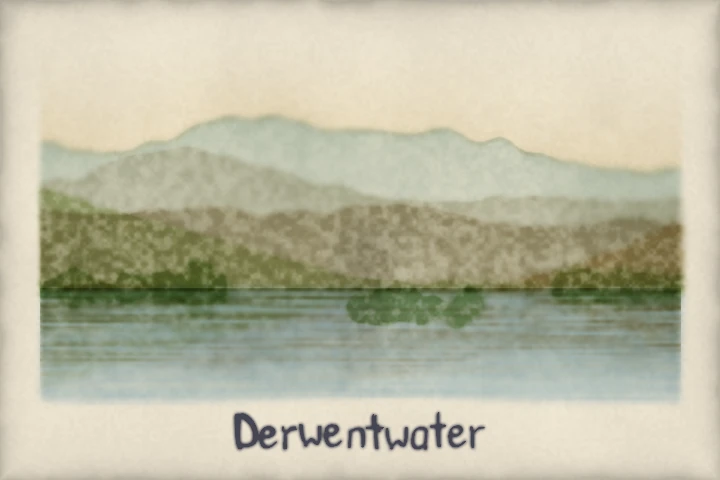
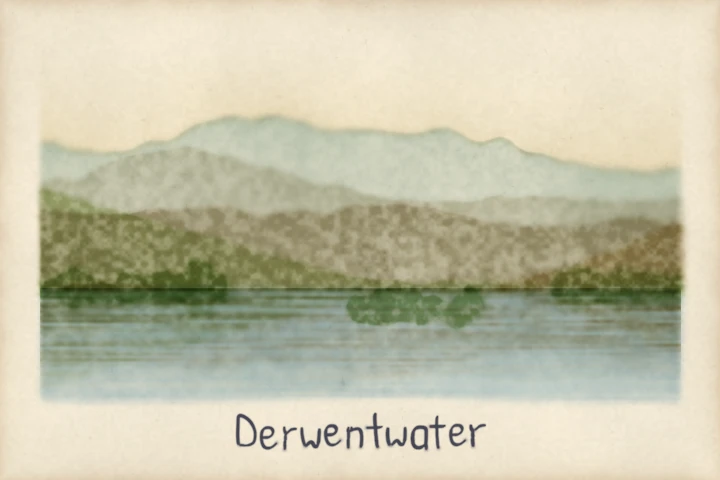
Letter the examples at scale 2
Claude-Session: https://claude.ai/code/session_0181LvWf4Znt1RFmCenbd5hE

Changed region(s): [[0.0, 0.0, 1.0, 1.0], [0.3056, 0.8438, 0.6722, 0.9375]]

diff --git a/examples/nib_stages.py b/examples/nib_stages.py
@@ -83,6 +83,8 @@ FIGURES: tuple[str, ...] = (
 )
 #: The width the figures are designed at, in pixels; the height is five ninths of it.
 DESIGN_W = 360
+#: How many times larger the nib plate is painted than the figure, before it is downsized.
+NIB_SCALE = 2
 #: The size of the paper's granulation noise, in pixels at the design width.
 GRAN_PX = 3.0
 #: The seed of the paper's noise, the hand, the nib and the dither the file is written with.
@@ -125,7 +127,11 @@ def _name(figure: str, canvas: Canvas, sheet: Sheet, paper: np.ndarray, unit: fl
     hand = Hand(face, hand_style)
     setting = Setting(NAME, TYPE_PX, path=_line(canvas.w / unit, h / unit), wash=figure != "ground")
     marks = hand.write(setting, hand.generator(SEED))
-    surface = NibSurface(canvas, unit, ground, GRAN_PX * unit)
+    big = Canvas(
+        0, 0, NIB_SCALE * canvas.w, NIB_SCALE * canvas.h, NIB_SCALE * canvas.w, NIB_SCALE * canvas.h
+    )
+    dark2 = np.repeat(np.repeat(ground, NIB_SCALE, axis=0), NIB_SCALE, axis=1)
+    surface = NibSurface(big, NIB_SCALE * unit, dark2, GRAN_PX * NIB_SCALE * unit)
     groups = NibGroups(nib, face, hand_style, BrushStyle(), PaperStyle())
     return _lay_plate(marks, surface, groups, paper)
 
@@ -139,7 +145,9 @@ def _lay_plate(
         if written is None:
             raise RuntimeError("the hand wrote no marks")
         with Image.open(written) as plate:
-            rgba = np.asarray(plate.convert("RGBA"), np.float32) / 255
+            size = (surface.canvas.w // NIB_SCALE, surface.canvas.h // NIB_SCALE)
+            small = plate.convert("RGBA").resize(size, Image.Resampling.LANCZOS)
+    rgba = np.asarray(small, np.float32) / 255
     alpha = rgba[..., 3:]
     return paper * (1 - alpha) + rgba[..., :3] * alpha
 

diff --git a/examples/derwentwater.py b/examples/derwentwater.py
@@ -71,6 +71,8 @@ logger = logging.getLogger(__name__)
 #: The seed of the paper, the ridges, the ripples and the nib.
 SEED = 21
 STEM = "derwentwater"
+#: How many times larger the nib plate is painted than the picture, before it is downsized.
+NIB_SCALE = 2
 NAME = "Derwentwater"
 #: Each hill, far to near: the pigment, where its ridge runs (as a share of the height),
 #: how far the ridge swings, the density at its crest and how granulating it is.
@@ -243,12 +245,16 @@ def _name(canvas: Canvas, gran_px: float, plate: Path) -> np.ndarray:
     hand = Hand(face, hand_style)
     setting = Setting(NAME, 0.072 * w, anchor=(w / 2, 0.935 * h), align="middle", ink="#4a4a58")
     marks: list[Mark] = hand.write(setting, hand.generator(SEED))
-    surface = NibSurface(canvas, 1.0, np.zeros((h, w), np.float32), gran_px)
+    canvas2 = Canvas(0, 0, NIB_SCALE * w, NIB_SCALE * h, NIB_SCALE * w, NIB_SCALE * h)
+    dark2 = np.zeros((NIB_SCALE * h, NIB_SCALE * w), np.float32)
+    surface = NibSurface(canvas2, NIB_SCALE, dark2, gran_px * NIB_SCALE)
     groups = NibGroups(NibStyle(), face, hand_style, BrushStyle(), PaperStyle())
     plate_path = nib_plate(marks, surface, groups, plate)
     if plate_path is None:
         raise RuntimeError("the hand wrote no marks")
-    return np.asarray(Image.open(plate_path).convert("RGBA"), np.float32) / 255
+    with Image.open(plate_path) as big:
+        small = big.convert("RGBA").resize((w, h), Image.Resampling.LANCZOS)
+    return np.asarray(small, np.float32) / 255
 
 
 def main(out_dir: Path, size: int = 720) -> Path:

diff --git a/examples/word.py b/examples/word.py
@@ -62,6 +62,8 @@ GRAN_PX = 5.0
 SEED = 7
 NAME = "pyntpot"
 STEM = "word"
+#: How many times larger the nib plate is painted than the picture, before it is downsized.
+NIB_SCALE = 2
 #: The size the name is set at, in pixels.
 NAME_PX = 104.0
 #: How wide the name is set, in multiples of its size, as the hand writes it.
@@ -112,13 +114,17 @@ def main(out_dir: Path) -> Path:
     hand = Hand(face, hand_style)
     marks: list[Mark] = hand.write(Setting(NAME, NAME_PX, path=_line()), hand.generator(SEED))
 
-    surface = NibSurface(canvas, 1.0, np.zeros((H, W), np.float32), GRAN_PX)
+    canvas2 = Canvas(0, 0, NIB_SCALE * W, NIB_SCALE * H, NIB_SCALE * W, NIB_SCALE * H)
+    dark2 = np.zeros((NIB_SCALE * H, NIB_SCALE * W), np.float32)
+    surface = NibSurface(canvas2, NIB_SCALE, dark2, GRAN_PX * NIB_SCALE)
     groups = NibGroups(NibStyle(), face, hand_style, BrushStyle(), PaperStyle())
     plate_path = nib_plate(marks, surface, groups, out_dir / f"{STEM}-plate.webp")
     if plate_path is None:
         raise RuntimeError("the hand wrote no marks")
 
-    rgba = np.asarray(Image.open(plate_path).convert("RGBA"), np.float32) / 255
+    with Image.open(plate_path) as big:
+        small = big.convert("RGBA").resize((W, H), Image.Resampling.LANCZOS)
+    rgba = np.asarray(small, np.float32) / 255
     alpha = rgba[..., 3:]
     out = washed * (1 - alpha) + rgba[..., :3] * alpha
 

diff --git a/examples/how_to_own_shapes.py b/examples/how_to_own_shapes.py
@@ -63,6 +63,8 @@ GRAN_PX = 3.0
 SEED = 5
 NAME = "Skiddaw"
 STEM = "own_shapes"
+#: How many times larger the nib plate is painted than the picture, before it is downsized.
+NIB_SCALE = 2
 
 #: A fell's skyline, left to right, as (x, y) points on the canvas. Yours can come from anywhere.
 SKYLINE: tuple[tuple[float, float], ...] = (
@@ -135,12 +137,16 @@ def main(out_dir: Path) -> Path:
     marks: list[Mark] = hand.write(
         Setting(NAME, 38.0, path=_lettering_path()), hand.generator(SEED)
     )
-    surface = NibSurface(canvas, 1.0, np.zeros((H, W), np.float32), GRAN_PX)
+    canvas2 = Canvas(0, 0, NIB_SCALE * W, NIB_SCALE * H, NIB_SCALE * W, NIB_SCALE * H)
+    dark2 = np.zeros((NIB_SCALE * H, NIB_SCALE * W), np.float32)
+    surface = NibSurface(canvas2, NIB_SCALE, dark2, GRAN_PX * NIB_SCALE)
     groups = NibGroups(NibStyle(), face, hand_style, BrushStyle(), PaperStyle())
     plate_path = nib_plate(marks, surface, groups, out_dir / f"{STEM}-plate.webp")
     if plate_path is None:
         raise RuntimeError("the hand wrote no marks")
-    rgba = np.asarray(Image.open(plate_path).convert("RGBA"), np.float32) / 255
+    with Image.open(plate_path) as big:
+        small = big.convert("RGBA").resize((W, H), Image.Resampling.LANCZOS)
+    rgba = np.asarray(small, np.float32) / 255
     alpha = rgba[..., 3:]
     out = painted * (1 - alpha) + rgba[..., :3] * alpha
 

diff --git a/examples/composition.py b/examples/composition.py
@@ -62,6 +62,8 @@ GRAN_PX = 3.0
 SEED = 7
 NAME = "Keswick"
 STEM = "composition"
+#: How many times larger the nib plate is painted than the picture, before it is downsized.
+NIB_SCALE = 2
 
 
 def _line() -> tuple[tuple[float, float], ...]:
@@ -114,13 +116,17 @@ def main(out_dir: Path) -> Path:
     hand = Hand(face, hand_style)
     marks: list[Mark] = hand.write(Setting(NAME, 36.0, path=_line()), hand.generator(SEED))
 
-    surface = NibSurface(canvas, 1.0, np.zeros((H, W), np.float32), GRAN_PX)
+    canvas2 = Canvas(0, 0, NIB_SCALE * W, NIB_SCALE * H, NIB_SCALE * W, NIB_SCALE * H)
+    dark2 = np.zeros((NIB_SCALE * H, NIB_SCALE * W), np.float32)
+    surface = NibSurface(canvas2, NIB_SCALE, dark2, GRAN_PX * NIB_SCALE)
     groups = NibGroups(NibStyle(), face, hand_style, BrushStyle(), PaperStyle())
     plate_path = nib_plate(marks, surface, groups, out_dir / f"{STEM}-plate.webp")
     if plate_path is None:
         raise RuntimeError("the hand wrote no marks")
 
-    rgba = np.asarray(Image.open(plate_path).convert("RGBA"), np.float32) / 255
+    with Image.open(plate_path) as big:
+        small = big.convert("RGBA").resize((W, H), Image.Resampling.LANCZOS)
+    rgba = np.asarray(small, np.float32) / 255
     alpha = rgba[..., 3:]
     out = paper * (1 - alpha) + rgba[..., :3] * alpha
 

diff --git a/examples/lettering.py b/examples/lettering.py
@@ -47,6 +47,8 @@ GRAN_PX = 3.0
 SEED = 7
 NAME = "Ambleside"
 STEM = "lettering"
+#: How many times larger the nib plate is painted than the picture, before it is downsized.
+NIB_SCALE = 2
 
 
 def _line() -> tuple[tuple[float, float], ...]:
@@ -77,13 +79,17 @@ def main(out_dir: Path) -> Path:
     hand = Hand(face, hand_style)
     marks: list[Mark] = hand.write(Setting(NAME, 36.0, path=_line()), hand.generator(SEED))
 
-    surface = NibSurface(canvas, 1.0, np.zeros((H, W), np.float32), GRAN_PX)
+    canvas2 = Canvas(0, 0, NIB_SCALE * W, NIB_SCALE * H, NIB_SCALE * W, NIB_SCALE * H)
+    dark2 = np.zeros((NIB_SCALE * H, NIB_SCALE * W), np.float32)
+    surface = NibSurface(canvas2, NIB_SCALE, dark2, GRAN_PX * NIB_SCALE)
     groups = NibGroups(NibStyle(), face, hand_style, BrushStyle(), PaperStyle())
     plate_path = nib_plate(marks, surface, groups, out_dir / f"{STEM}-plate.webp")
     if plate_path is None:
         raise RuntimeError("the hand wrote no marks")
 
-    rgba = np.asarray(Image.open(plate_path).convert("RGBA"), np.float32) / 255
+    with Image.open(plate_path) as big:
+        small = big.convert("RGBA").resize((W, H), Image.Resampling.LANCZOS)
+    rgba = np.asarray(small, np.float32) / 255
     alpha = rgba[..., 3:]
     out = paper * (1 - alpha) + rgba[..., :3] * alpha
 

diff --git a/tests/examples/test_letters_examples.py b/tests/examples/test_letters_examples.py
@@ -35,3 +35,11 @@ def test_the_lettering_plate_carries_alpha_only_near_the_name(tmp_path):
     corners = (alpha[0, 0], alpha[0, -1], alpha[-1, 0], alpha[-1, -1])
     assert all(value == 0 for value in corners)
     assert alpha.max() == 255
+
+
+@pytest.mark.parametrize("stem", list(SIZES), ids=list(SIZES))
+def test_the_nib_plate_is_painted_at_twice_the_image_size(stem, tmp_path):
+    """The nib plate written beside the image is twice the image's size, so the lettering is downsized."""
+    path = run_example(stem, tmp_path)
+    with Image.open(path) as image, Image.open(path.with_name(f"{stem}-plate.webp")) as plate:
+        assert plate.size == (2 * image.size[0], 2 * image.size[1])

diff --git a/docs/tutorials/paint-a-watercolour.md b/docs/tutorials/paint-a-watercolour.md
@@ -336,13 +336,17 @@ def main(out_dir: Path) -> Path:
     hand = Hand(face, hand_style)
     marks: list[Mark] = hand.write(Setting(NAME, 36.0, path=_line()), hand.generator(SEED))
 
-    surface = NibSurface(canvas, 1.0, np.zeros((H, W), np.float32), GRAN_PX)
+    canvas2 = Canvas(0, 0, NIB_SCALE * W, NIB_SCALE * H, NIB_SCALE * W, NIB_SCALE * H)
+    dark2 = np.zeros((NIB_SCALE * H, NIB_SCALE * W), np.float32)
+    surface = NibSurface(canvas2, NIB_SCALE, dark2, GRAN_PX * NIB_SCALE)
     groups = NibGroups(NibStyle(), face, hand_style, BrushStyle(), PaperStyle())
     plate_path = nib_plate(marks, surface, groups, out_dir / f"{STEM}-plate.webp")
     if plate_path is None:
         raise RuntimeError("the hand wrote no marks")
 
-    rgba = np.asarray(Image.open(plate_path).convert("RGBA"), np.float32) / 255
+    with Image.open(plate_path) as big:
+        small = big.convert("RGBA").resize((W, H), Image.Resampling.LANCZOS)
+    rgba = np.asarray(small, np.float32) / 255
     alpha = rgba[..., 3:]
     out = paper * (1 - alpha) + rgba[..., :3] * alpha
 
@@ -412,13 +416,17 @@ def main(out_dir: Path) -> Path:
     hand = Hand(face, hand_style)
     marks: list[Mark] = hand.write(Setting(NAME, 36.0, path=_line()), hand.generator(SEED))
 
-    surface = NibSurface(canvas, 1.0, np.zeros((H, W), np.float32), GRAN_PX)
+    canvas2 = Canvas(0, 0, NIB_SCALE * W, NIB_SCALE * H, NIB_SCALE * W, NIB_SCALE * H)
+    dark2 = np.zeros((NIB_SCALE * H, NIB_SCALE * W), np.float32)
+    surface = NibSurface(canvas2, NIB_SCALE, dark2, GRAN_PX * NIB_SCALE)
     groups = NibGroups(NibStyle(), face, hand_style, BrushStyle(), PaperStyle())
     plate_path = nib_plate(marks, surface, groups, out_dir / f"{STEM}-plate.webp")
     if plate_path is None:
         raise RuntimeError("the hand wrote no marks")
 
-    rgba = np.asarray(Image.open(plate_path).convert("RGBA"), np.float32) / 255
+    with Image.open(plate_path) as big:
+        small = big.convert("RGBA").resize((W, H), Image.Resampling.LANCZOS)
+    rgba = np.asarray(small, np.float32) / 255
     alpha = rgba[..., 3:]
     out = paper * (1 - alpha) + rgba[..., :3] * alpha
 

diff --git a/specs/001-port/p7-run-log.md b/specs/001-port/p7-run-log.md
@@ -727,3 +727,21 @@ code; the goldens are regenerated once after the five parallel engine fixes), RE
 labels on bare paper ("Snizort", "Sligachan" are sea lochs); two museums are the only landmarks named; grey
 foxing at the edge. Gates: prek, `-m "not golden"` and `-m golden --golden-tolerance`; the exact
 27-minute golden run was skipped this time by instruction.
+
+### P7.V11 Lettered examples painted at nib scale 2
+
+`lettering.py`, `word.py`, `composition.py`, `derwentwater.py`, `how_to_own_shapes.py` and
+`nib_stages.py` paint their nib plate on a canvas `NIB_SCALE` (2) times the picture and downsize it
+with Lanczos, so the nib's edge is resolved at twice the display grid (cause: causes report item 4).
+Published widths unchanged. The plate file written beside each image is now twice the image's size
+(test first: `test_the_nib_plate_is_painted_at_twice_the_image_size`). The two quoted blocks of
+`paint-a-watercolour.md` follow the scripts. Regenerated, with their masters: `word`,
+`gallery/{lettering,composition}`, `tutorials/{lettering,composition}`,
+`painting-with-python/derwentwater`, `how-to/own-shapes` and `explanation/nib-{centreline,broad,turned,ground,backing}`
+(`nib-line`, `nib-set-down` and `nib-runs-dry` carry no plate and did not move). Encodings and
+qualities unchanged; `gallery/lettering.webp` stays lossless at 56,558 bytes against the 60,000 budget,
+so no lossy fallback. Looked at before and after at 100 % and 200 %: the lettering is crisp, the edges
+no longer stair-stepped or blurred; the strokes read thinner and finer than the old soft blobs, which is
+the nib's true width now resolved. Side by side: `scratchpad/v11-crisp.png`. The other docs-image pins
+fail until the engine regeneration lands (expected). The golden CI run is to be recorded at the
+checkpoint.

diff --git a/specs/001-port/tasks.md b/specs/001-port/tasks.md
@@ -179,7 +179,7 @@ Order: after P10 part 2 and P10.11. Fattened at P7.0 (plan.md, P7) after the res
 - [x] P7.V8b Painter's pigments, a separate `PAINTERS_PIGMENTS` table; ADR 0039
 - [x] P7.V9b Journal notes on a map, seated first as flat blocks with leaders; ADR 0038
 - [ ] P7.V10 Showcase themes (maroon pen route, more landscape) and curated callouts
-- [ ] P7.V11 Lettered examples painted at nib scale 2 and downsized with Lanczos; published widths unchanged
+- [x] P7.V11 Lettered examples painted at nib scale 2 and downsized with Lanczos; published widths unchanged
 - [ ] P7.V12a Maps pages: Ambleside hero, gallery, route-ink grid (two paints, twelve composes), landmarks how-to; retire Keswick and Trotternish fixtures
 - [ ] P7.V12b The watercolour tutorial in one rhythm, with for-loop grids; reference and explanation figures rebuilt
 - [ ] P7.V12c Painting with Python: trees replace the gasket, a fern family, brushed curves
